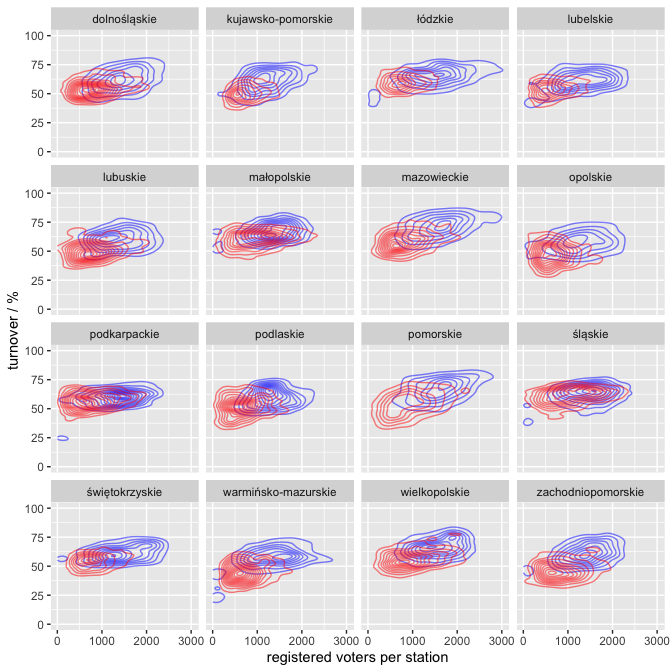
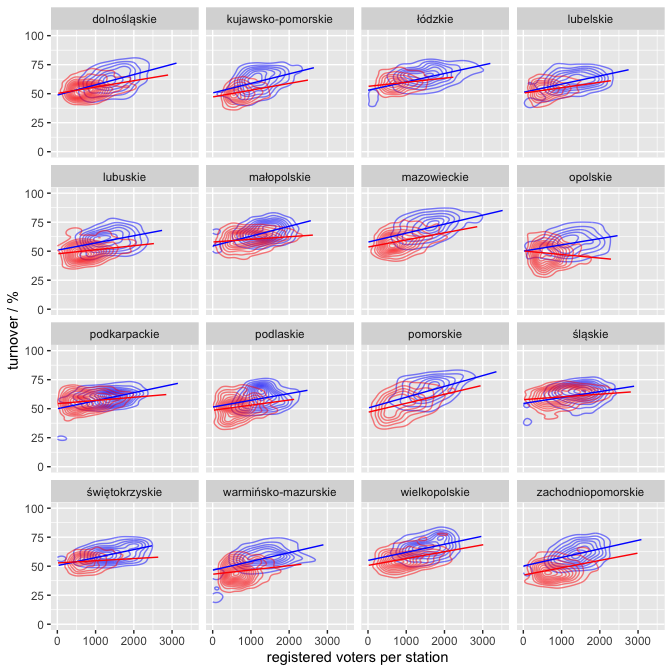
updated turnover by size by type analysis

diff --git a/R/turnover.md b/R/turnover.md
@@ -69,12 +69,14 @@ station correlates with the voter turnover. We can suspect that the
 polling stations serving more densely populated areas might be larger,
 so let’s separate urban and rural areas, as well as voivodeships.
 
+    ## `geom_smooth()` using formula 'y ~ x'
+    ## `geom_smooth()` using formula 'y ~ x'
+
 ![](turnover_files/figure-markdown_strict/unnamed-chunk-8-1.png)
 
 Well, our suspicion was correct; urban areas (blue) are indeed on
-average served by larger polling stations. However, the turnover
-difference between the urban and rural areas explains most of
-variability in the plot above. The size of a polling station in rural
-areas does not seem to have a significant effect on the expected
-turnover, with a possible exception of Mazovia and Pomerania \[pol.
-*pomorskie*\] voivodeships.
+average served by larger polling stations. The size of a polling station
+is generally positively correlated the expected turnover, with the
+notable exception of Opole \[pol. *opolskie*\] voivodeship. It can be
+also seen that the correlation is consistently stronger in urban areas
+across all regions.
